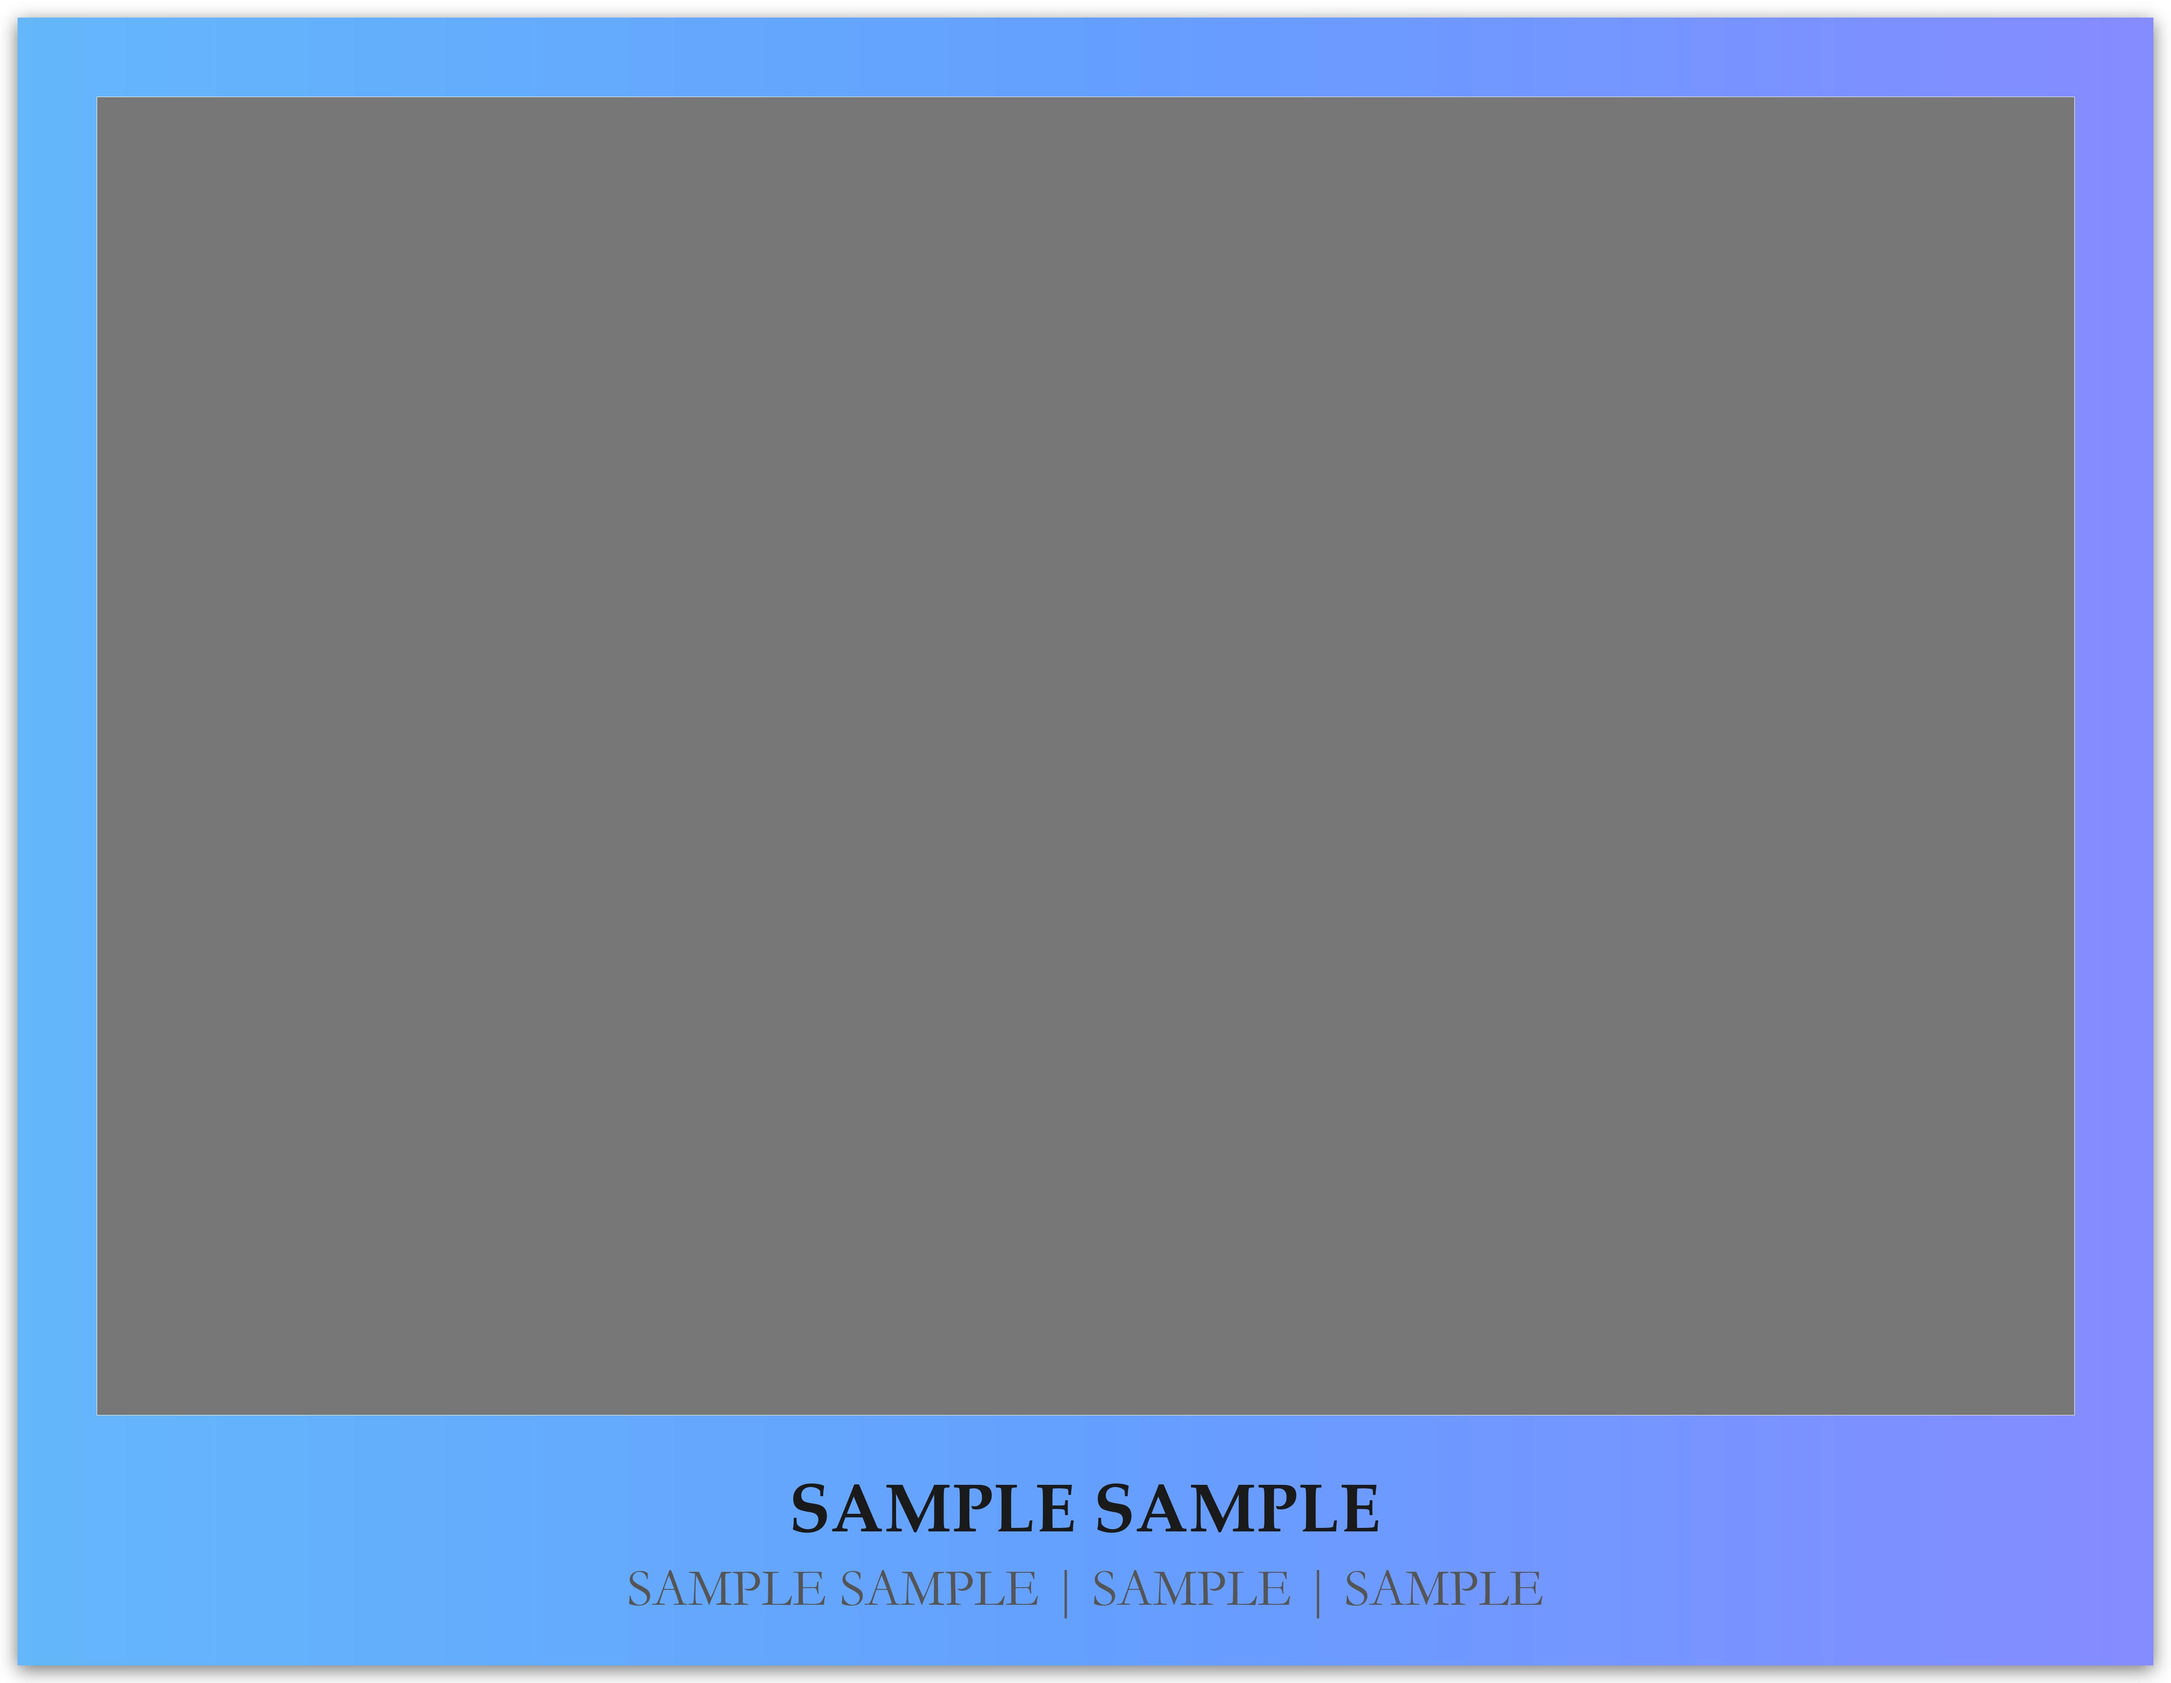
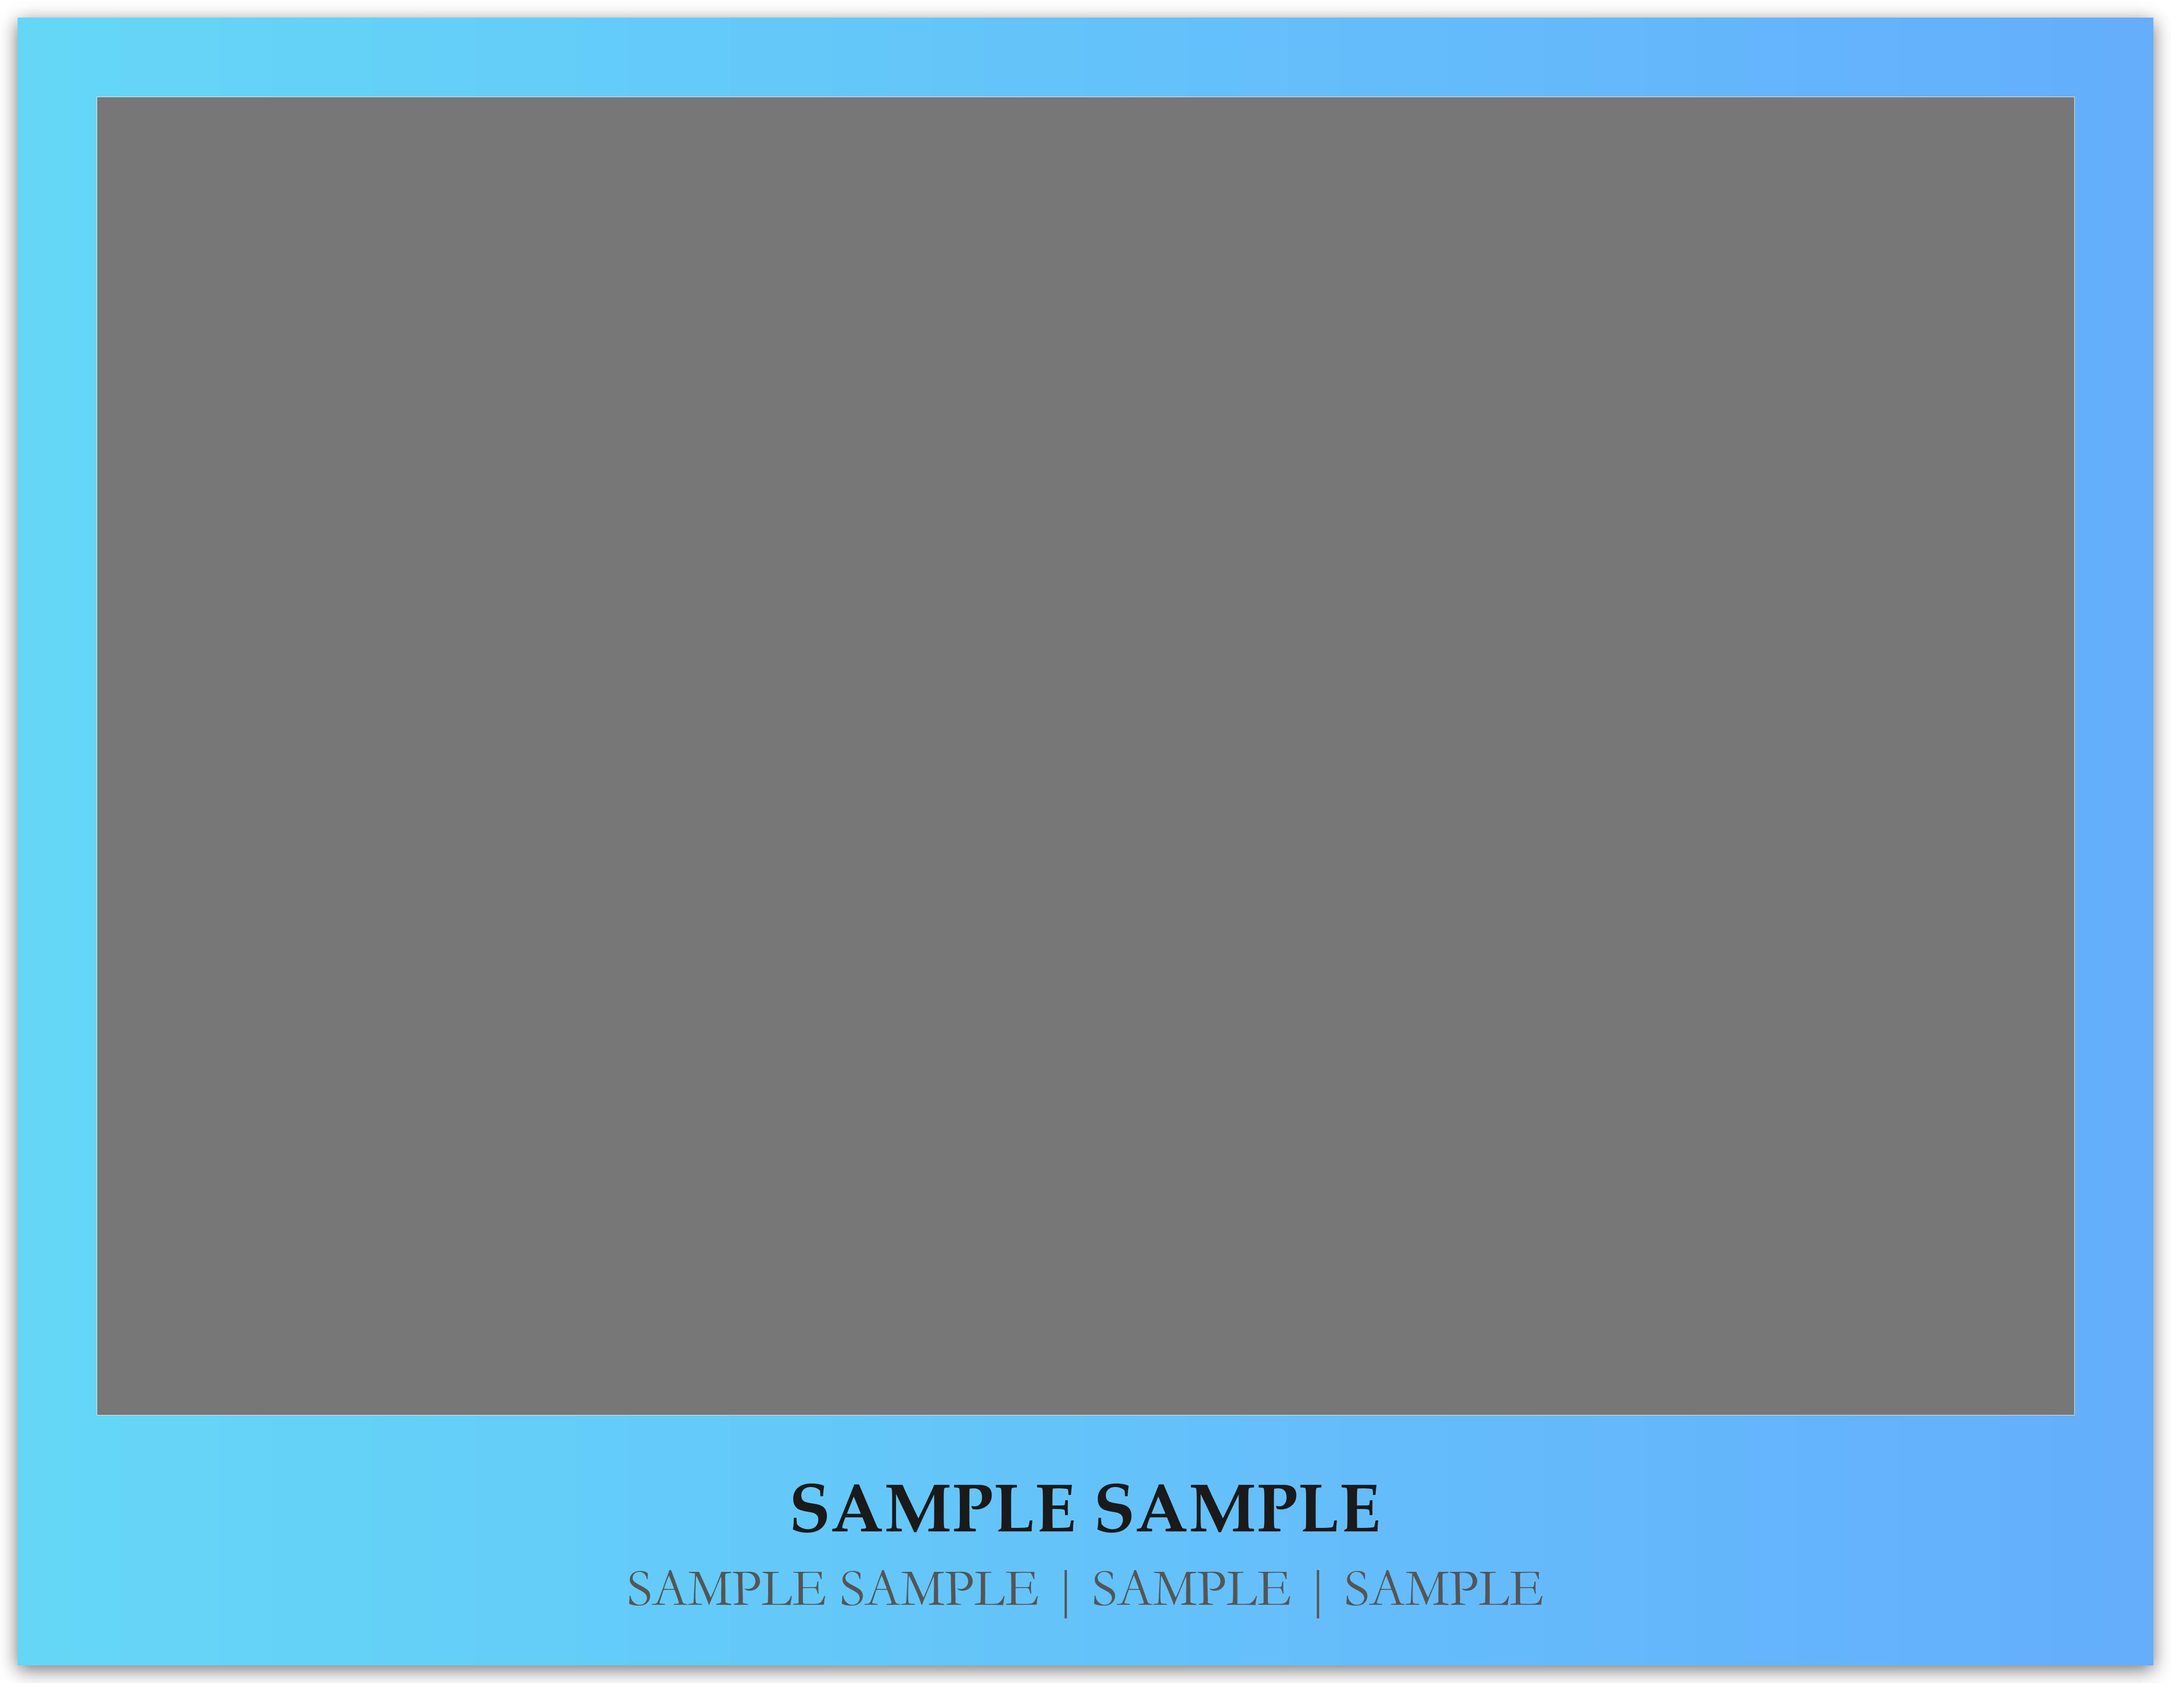
docs: use 10-image horizontal strip for rainbow showcase

Changed region(s): [[0.0, 0.0, 0.9976, 0.9943]]

diff --git a/render_showcase_grids.py b/render_showcase_grids.py
@@ -30,7 +30,33 @@ def create_3x3_grid(image_paths, output_path, bg_color=(255, 255, 255)):
     canvas.save(output_path, quality=95)
     print(f"Saved grid to {output_path}")
 
+def create_horizontal_strip(image_paths, output_path):
+    valid_paths = [p for p in image_paths if os.path.exists(p)]
+    if not valid_paths: return
+    
+    images = [Image.open(p) for p in valid_paths]
+    # Resize for strip
+    target_h = 800
+    resized = [img.resize((int(img.width * target_h / img.height), target_h), Image.Resampling.LANCZOS) for img in images]
+    
+    total_w = sum(img.width for img in resized)
+    canvas = Image.new('RGB', (total_w, target_h), (255, 255, 255))
+    
+    curr_x = 0
+    for img in resized:
+        canvas.paste(img, (curr_x, 0))
+        curr_x += img.width
+        
+    canvas.save(output_path, quality=95)
+    print(f"Saved horizontal strip to {output_path}")
+
 def render_single(renderer, img_path, data, theme, output_path):
+    # Ensure a fresh render
+    if not os.path.exists("temp_renders"): os.makedirs("temp_renders")
+    for f in os.listdir("temp_renders"):
+        try: os.remove(os.path.join("temp_renders", f))
+        except: pass
+        
     renderer.process_image(img_path, data, "temp_renders", theme=theme, is_sample=True)
     time.sleep(0.5)
     files = os.listdir("temp_renders")
@@ -65,9 +91,6 @@ def main():
     
     # 1. Dark - Single Image
     print("Rendering Dark Single...")
-    for f in os.listdir(output_temp): 
-        try: os.remove(os.path.join(output_temp, f))
-        except: pass
     render_single(renderer, img_path, data, "dark", "previews/v2.3/sample_dark.jpg")
 
     def render_theme_batch(theme, count):
@@ -77,12 +100,11 @@ def main():
                 try: os.remove(os.path.join(output_temp, f))
                 except: pass
             
-            # --- FIX: Pass rainbow_range for rainbow theme ---
             kwargs = {}
             if theme == "rainbow":
                 step = 1.0 / count
                 kwargs['rainbow_range'] = (i * step, (i + 1) * step)
-                print(f"Rendering Rainbow {i}/9 with range {kwargs['rainbow_range']}")
+                print(f"Rendering Rainbow {i}/{count} with range {kwargs['rainbow_range']}")
             
             renderer.process_image(img_path, data, output_temp, theme=theme, 
                                    rainbow_index=i, rainbow_total=count, is_sample=True, **kwargs)
@@ -98,9 +120,9 @@ def main():
     macaron_files = render_theme_batch("macaron", 9)
     create_3x3_grid(macaron_files, "previews/v2.3/grid_macaron.jpg")
     
-    print("Rendering Rainbow Grid (True Continuous)...")
-    rainbow_files = render_theme_batch("rainbow", 9)
-    create_3x3_grid(rainbow_files, "previews/v2.3/grid_rainbow.jpg")
+    print("Rendering Rainbow 10-Image Strip...")
+    rainbow_files = render_theme_batch("rainbow", 10)
+    create_horizontal_strip(rainbow_files, "previews/v2.3/strip_rainbow_10.jpg")
 
 if __name__ == "__main__":
     main()

diff --git a/release_notes_v2.3.0.md b/release_notes_v2.3.0.md
@@ -7,10 +7,9 @@
 ### 1. 🌈 彩虹相纸 (Rainbow Theme)
 灵感源自经典的富士胶片（Fujifilm Instax）彩虹渐变相纸。
 - **连续光谱**: 在批量处理多张图片时，系统会自动分配光谱顺序。当您将成品图连拼时，会呈现出一条丝滑、无断点的彩虹渐变长卷。
-- **视觉美感**: 独特的色彩过渡算法，为您的扫街或日常记录增添一份梦幻感。
 
-![Rainbow 9-Grid Preview](previews/v2.3/grid_rainbow.jpg)
-*彩虹相纸：九宫格连续渐变效果展示。*
+![Rainbow 10-Image Strip](previews/v2.3/strip_rainbow_10.jpg)
+*彩虹相纸：10 张横向连拼连续渐变效果展示。*
 
 ### 2. 🍭 马卡龙色系 (Macaron Palette)
 全新设计的马卡龙渐变底色，专为追求个性化审美的用户打造。
